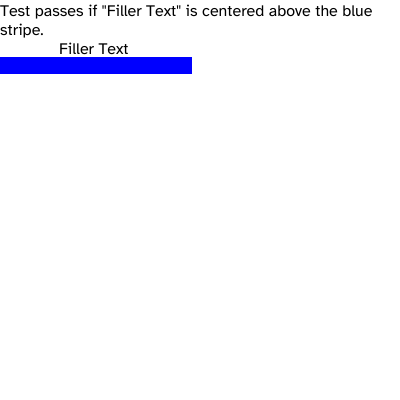
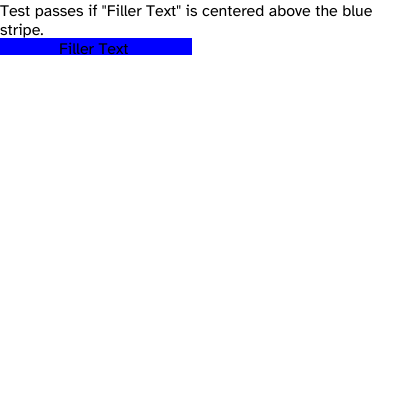
WIP: Implement Phases 2 and 3 of multi-pass inline layout
Added complete three-phase inline layout pipeline:

Phase 1: CollectInlineItems ✅
- Flattens DOM to sequential InlineItem list
- Handles text, inline elements, floats, atomic inlines

Phase 2: BreakLines ✅ (basic implementation)
- Decides what items go on each line
- Accounts for float offsets via getFloatOffsets()
- Handles line wrapping when items don't fit
- TODO: Add word-level text breaking
- TODO: Add retry when floats change width

Phase 3: ConstructLineBoxes ✅
- Creates positioned Box fragments from line results
- Handles nested inline elements (open/close tags)
- Positions text and atomic items with correct X/Y
- Tracks open inline contexts for proper nesting

Orchestrator: LayoutInlineContent ✅
- Main entry point that coordinates all three phases
- Initializes InlineLayoutState
- Calls phases in sequence
- Returns final box list

Current limitations:
- No retry mechanism yet (always succeeds on first pass)
- Text breaking is whole-item only (no word breaking)
- Floats are collected but not yet repositioned
- Needs integration into main layoutNode flow

Next steps:
1. Add retry logic when floats change available width
2. Integrate into layoutNode to replace old inline layout
3. Add word-level text breaking
4. Test with box-generation-001.xht

Changed region(s): [[0.0, 0.09, 0.48, 0.21]]

diff --git a/pkg/layout/layout.go b/pkg/layout/layout.go
@@ -4157,6 +4157,52 @@ func parseCounterIncrement(value string) map[string]int {
 // Multi-pass Inline Layout (Blink-style three-phase approach)
 // ============================================================================
 
+// LayoutInlineContent is the main entry point for multi-pass inline layout.
+// It orchestrates all three phases and returns the resulting boxes.
+//
+// This should be called instead of the old single-pass inline layout logic.
+func (le *LayoutEngine) LayoutInlineContent(
+	node *html.Node,
+	box *Box,
+	availableWidth float64,
+	startY float64,
+	border, padding css.BoxEdge,
+	computedStyles map[*html.Node]*css.Style,
+) []*Box {
+	// Initialize state
+	state := &InlineLayoutState{
+		Items:              []*InlineItem{},
+		Lines:              []*LineBreakResult{},
+		ContainerBox:       box,
+		ContainerStyle:     box.Style,
+		AvailableWidth:     availableWidth,
+		StartY:             startY,
+		Border:             border,
+		Padding:            padding,
+		FloatList:          []FloatInfo{},
+		FloatBaseIndex:     le.floatBase,
+	}
+
+	// Phase 1: Collect inline items
+	for child := node.FirstChild; child != nil; child = child.NextSibling {
+		le.collectInlineItems(child, state, computedStyles)
+	}
+
+	// Phase 2: Break into lines
+	// TODO: Add retry logic when floats change available width
+	success := le.breakLines(state)
+	if !success {
+		// Line breaking failed - fallback to empty result
+		// TODO: Implement proper retry mechanism
+		return []*Box{}
+	}
+
+	// Phase 3: Construct line boxes
+	boxes := le.constructLineBoxes(state, box)
+
+	return boxes
+}
+
 // Phase 1: CollectInlineItems flattens the DOM tree into a sequential list of inline items.
 // This converts the hierarchical structure into a flat array that's easier to process for line breaking.
 //
@@ -4287,15 +4333,210 @@ func (le *LayoutEngine) collectInlineItems(node *html.Node, state *InlineLayoutS
 //
 // Returns true if line breaking succeeded, false if retry is needed.
 func (le *LayoutEngine) breakLines(state *InlineLayoutState) bool {
-	// TODO: Implement line breaking logic
-	// For now, return false to indicate not implemented
-	return false
+	if len(state.Items) == 0 {
+		return true // Nothing to break
+	}
+
+	state.Lines = nil // Clear any previous line breaking results
+	currentY := state.StartY
+	itemIndex := 0
+
+	for itemIndex < len(state.Items) {
+		// Start a new line
+		line := &LineBreakResult{
+			Y:          currentY,
+			Items:      []*InlineItem{},
+			StartIndex: itemIndex,
+			TextBreaks: make(map[*InlineItem]struct {
+				StartOffset int
+				EndOffset   int
+			}),
+		}
+
+		// Calculate available width for this line (accounting for floats)
+		leftOffset, rightOffset := le.getFloatOffsets(currentY)
+		line.AvailableWidth = state.AvailableWidth - leftOffset - rightOffset
+
+		// Accumulate items on this line
+		lineX := 0.0
+		lineHeight := 0.0
+
+		for itemIndex < len(state.Items) {
+			item := state.Items[itemIndex]
+
+			// Calculate item width
+			itemWidth := 0.0
+			itemHeight := 0.0
+
+			switch item.Type {
+			case InlineItemText:
+				// For text, we might need to break it
+				itemWidth = item.Width
+				itemHeight = item.Height
+
+				// Check if text fits on current line
+				if lineX+itemWidth > line.AvailableWidth && len(line.Items) > 0 {
+					// Text doesn't fit - need to break
+					// For now, simple algorithm: break entire text to next line
+					// TODO: Implement proper word breaking within text
+					goto finishLine
+				}
+
+			case InlineItemOpenTag, InlineItemCloseTag:
+				// Tags don't take space themselves
+				itemWidth = 0
+				itemHeight = 0
+
+			case InlineItemAtomic, InlineItemFloat:
+				// Atomic items have their own width/height
+				itemWidth = item.Width
+				itemHeight = item.Height
+
+				if lineX+itemWidth > line.AvailableWidth && len(line.Items) > 0 {
+					// Atomic item doesn't fit
+					goto finishLine
+				}
+
+			case InlineItemControl:
+				// Control items (like <br>) force a line break
+				itemIndex++
+				goto finishLine
+			}
+
+			// Add item to line
+			line.Items = append(line.Items, item)
+			lineX += itemWidth
+			if itemHeight > lineHeight {
+				lineHeight = itemHeight
+			}
+
+			itemIndex++
+		}
+
+	finishLine:
+		// Finalize this line
+		line.EndIndex = itemIndex
+		line.LineHeight = lineHeight
+		if line.LineHeight == 0 {
+			// Use container's line-height as minimum
+			line.LineHeight = state.ContainerStyle.GetLineHeight()
+		}
+
+		state.Lines = append(state.Lines, line)
+
+		// Move to next line
+		currentY += line.LineHeight
+
+		// If we didn't make progress, force at least one item
+		if itemIndex == line.StartIndex && itemIndex < len(state.Items) {
+			// Force include at least one item to avoid infinite loop
+			item := state.Items[itemIndex]
+			line.Items = append(line.Items, item)
+			line.EndIndex = itemIndex + 1
+			itemIndex++
+		}
+	}
+
+	return true // Line breaking succeeded
 }
 
 // Phase 3: ConstructLineBoxes creates actual positioned Box fragments from line breaking results.
 // This is the final phase that produces the output fragment tree.
 func (le *LayoutEngine) constructLineBoxes(state *InlineLayoutState, parent *Box) []*Box {
-	// TODO: Implement line box construction
-	// For now, return empty slice
-	return []*Box{}
+	boxes := []*Box{}
+
+	for _, line := range state.Lines {
+		// Calculate starting X for this line (accounting for floats)
+		leftOffset, _ := le.getFloatOffsets(line.Y)
+		currentX := state.ContainerBox.X + state.Border.Left + state.Padding.Left + leftOffset
+
+		// Track open inline elements (for nested inline styling)
+		type inlineContext struct {
+			node  *html.Node
+			style *css.Style
+			box   *Box
+		}
+		openInlines := []inlineContext{}
+
+		// Process each item on this line
+		for _, item := range line.Items {
+			switch item.Type {
+			case InlineItemText:
+				// Create a text box
+				textBox := &Box{
+					Node:     item.Node,
+					Style:    item.Style,
+					X:        currentX,
+					Y:        line.Y,
+					Width:    item.Width,
+					Height:   item.Height,
+					Margin:   css.BoxEdge{},
+					Padding:  css.BoxEdge{},
+					Border:   css.BoxEdge{},
+					Position: css.PositionStatic,
+					Parent:   parent,
+				}
+				boxes = append(boxes, textBox)
+				currentX += item.Width
+
+			case InlineItemOpenTag:
+				// Start tracking this inline element
+				// Create a box for it (will be sized after seeing all children)
+				inlineBox := &Box{
+					Node:     item.Node,
+					Style:    item.Style,
+					X:        currentX,
+					Y:        line.Y,
+					Width:    0, // Will be computed from children
+					Height:   line.LineHeight,
+					Margin:   css.BoxEdge{},
+					Padding:  item.Style.GetPadding(),
+					Border:   item.Style.GetBorderWidth(),
+					Position: css.PositionStatic,
+					Parent:   parent,
+				}
+				openInlines = append(openInlines, inlineContext{
+					node:  item.Node,
+					style: item.Style,
+					box:   inlineBox,
+				})
+
+			case InlineItemCloseTag:
+				// Close the most recent inline element
+				if len(openInlines) > 0 {
+					ctx := openInlines[len(openInlines)-1]
+					openInlines = openInlines[:len(openInlines)-1]
+
+					// Compute width from current X - start X
+					ctx.box.Width = currentX - ctx.box.X
+					boxes = append(boxes, ctx.box)
+				}
+
+			case InlineItemAtomic:
+				// Atomic inline element - it has its own dimensions
+				atomicBox := &Box{
+					Node:     item.Node,
+					Style:    item.Style,
+					X:        currentX,
+					Y:        line.Y,
+					Width:    item.Width,
+					Height:   item.Height,
+					Margin:   css.BoxEdge{},
+					Padding:  css.BoxEdge{},
+					Border:   css.BoxEdge{},
+					Position: css.PositionStatic,
+					Parent:   parent,
+				}
+				boxes = append(boxes, atomicBox)
+				currentX += item.Width
+
+			case InlineItemFloat:
+				// Floats are positioned separately by float logic
+				// We don't position them here
+				// TODO: Integrate with existing float positioning
+			}
+		}
+	}
+
+	return boxes
 }
